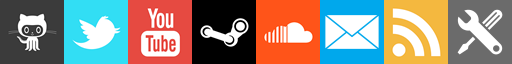
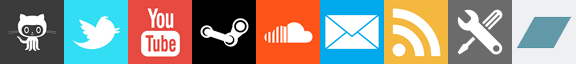
Link to bristolemo.com, the home of Bristol Emo

diff --git a/template/global.dj.htm b/template/global.dj.htm
@@ -35,8 +35,8 @@
             </a>
           </li>
           <li>
-            <a href="https://soundcloud.com/leonardo-lemuel">
-              <span class="icon soundcloud" title="Listen to my music"></span>
+            <a href="https://bristolemo.com">
+              <span class="icon bandcamp" title="Listen Bristol Emo (my music and more)"></span>
             </a>
           </li>
         <!-- Additional email icon by dAKirby309 - http://www.iconarchive.com/artist/dakirby309.html -->

diff --git a/staticfiles/css/base.css b/staticfiles/css/base.css
@@ -326,6 +326,10 @@ form > ul > li > ul.errorlist > li {
         background-position: -448px 0;
     }
 
+    body > header .icon.bandcamp {
+        background-position: -512px 0;
+    }
+
     body > header > menu {
         clear: both;
         position: relative;
